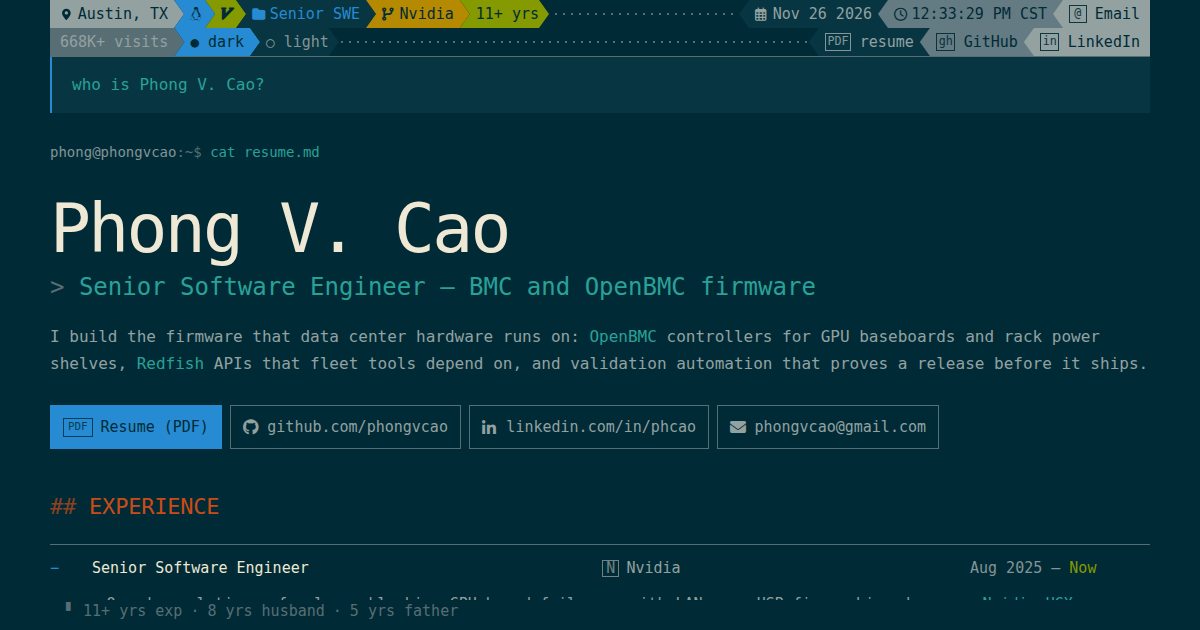
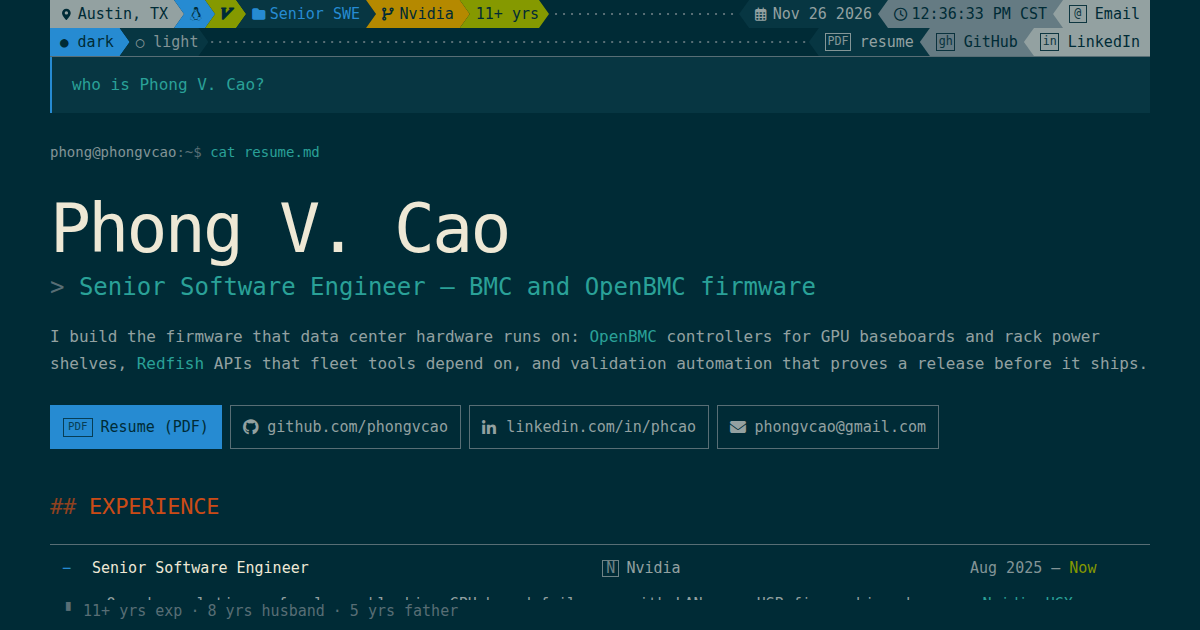
site: toggle glyph clears the pinned edge, visits metric removed
The + and - sit 12 px inside the row, and the second powerline line starts at the theme switch again.

Changed region(s): [[0.0308, 0.0302, 0.2775, 0.0905], [0.8017, 0.0, 0.8325, 0.0302]]

diff --git a/index.html b/index.html
@@ -98,7 +98,6 @@
     </div>
     <div class="pl-line pl-line-social">
       <div class="pl-group pl-left pl-theme" role="group" aria-label="Colour theme">
-        <span class="pl-seg pl-metric" title="hire4real.fyi, 668K+ visits a month">668K+ visits</span>
         <button type="button" class="pl-seg pl-theme-btn is-active" data-theme-set="dark" aria-pressed="true"><span class="pl-icon" aria-hidden="true">&#x25CF;</span>dark</button>
         <button type="button" class="pl-seg pl-theme-btn" data-theme-set="light" aria-pressed="false"><span class="pl-icon" aria-hidden="true">&#x25CB;</span>light</button>
       </div>

diff --git a/styles.css b/styles.css
@@ -476,6 +476,10 @@ code {
   font-weight: 700;
 }
 
+.exp-toggle {
+  padding-left: 12px;
+}
+
 .exp-item[open] .exp-toggle::before {
   content: "−";
 }
@@ -979,11 +983,6 @@ code {
 
 .pl-right .pl-seg:last-child {
   padding-right: 10px;
-}
-
-.pl-metric {
-  --seg-bg: var(--base01);
-  --seg-fg: var(--base1);
 }
 
 .pl-theme-btn {
